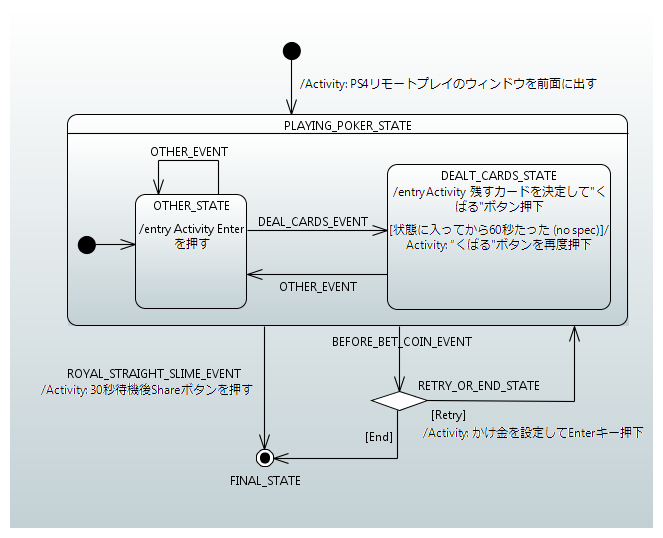
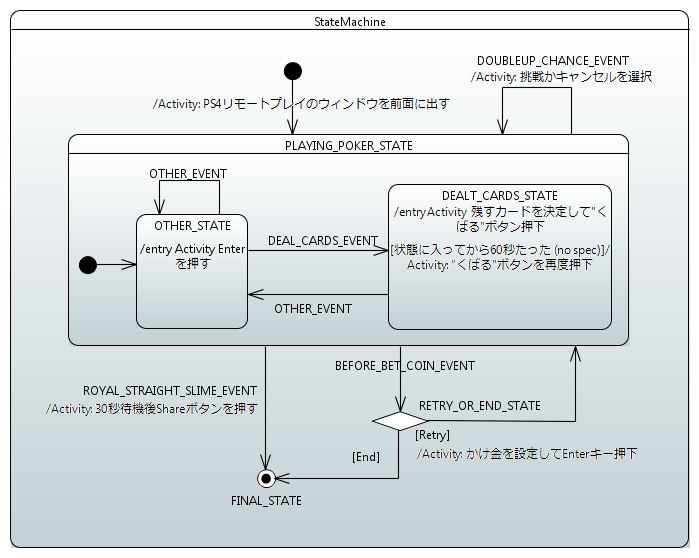
Enable to select try or cancel doubleup chance

diff --git a/src/main/java/com/github/lenemarix/autoplay/dq11/poker/config/StateMachineConfig.java b/src/main/java/com/github/lenemarix/autoplay/dq11/poker/config/StateMachineConfig.java
@@ -1,16 +1,7 @@
 package com.github.lenemarix.autoplay.dq11.poker.config;
 
-import static com.github.lenemarix.autoplay.dq11.poker.statemachine.event.Events.BEFORE_BET_COIN_EVENT;
-import static com.github.lenemarix.autoplay.dq11.poker.statemachine.event.Events.DEAL_CARDS_EVENT;
-import static com.github.lenemarix.autoplay.dq11.poker.statemachine.event.Events.DOUBLEUP_CHANCE_EVENT;
-import static com.github.lenemarix.autoplay.dq11.poker.statemachine.event.Events.OTHER_EVENT;
-import static com.github.lenemarix.autoplay.dq11.poker.statemachine.event.Events.ROYAL_STRAIGHT_SLIME_EVENT;
-import static com.github.lenemarix.autoplay.dq11.poker.statemachine.state.States.DEALT_CARDS_STATE;
-import static com.github.lenemarix.autoplay.dq11.poker.statemachine.state.States.DOUBLEUP_CHANCE_SELECT_STATE;
-import static com.github.lenemarix.autoplay.dq11.poker.statemachine.state.States.FINAL_STATE;
-import static com.github.lenemarix.autoplay.dq11.poker.statemachine.state.States.OTHER_STATE;
-import static com.github.lenemarix.autoplay.dq11.poker.statemachine.state.States.PLAYING_POKER_STATE;
-import static com.github.lenemarix.autoplay.dq11.poker.statemachine.state.States.RETRY_OR_END_STATE;
+import static com.github.lenemarix.autoplay.dq11.poker.statemachine.event.Events.*;
+import static com.github.lenemarix.autoplay.dq11.poker.statemachine.state.States.*;
 
 import org.springframework.context.annotation.Bean;
 import org.springframework.context.annotation.Configuration;
@@ -23,8 +14,8 @@ import org.springframework.statemachine.config.builders.StateMachineTransitionCo
 
 import com.github.lenemarix.autoplay.dq11.poker.statemachine.action.ActivateWindowAction;
 import com.github.lenemarix.autoplay.dq11.poker.statemachine.action.BetCoinAction;
-import com.github.lenemarix.autoplay.dq11.poker.statemachine.action.CancelDoubleupChanceAction;
 import com.github.lenemarix.autoplay.dq11.poker.statemachine.action.DecideExchangeCardAction;
+import com.github.lenemarix.autoplay.dq11.poker.statemachine.action.DecideTryDoubleupChanceAction;
 import com.github.lenemarix.autoplay.dq11.poker.statemachine.action.EnterKeyPushAction;
 import com.github.lenemarix.autoplay.dq11.poker.statemachine.action.PushDealButtonAction;
 import com.github.lenemarix.autoplay.dq11.poker.statemachine.action.PushShareButtonAction;
@@ -69,10 +60,10 @@ public class StateMachineConfig extends EnumStateMachineConfigurerAdapter<States
     public PushShareButtonAction pushShareButtonAction() {
         return new PushShareButtonAction();
     }
-    
+
     @Bean
-    public CancelDoubleupChanceAction cancelDoubleupChanceAction() {
-        return new CancelDoubleupChanceAction();
+    public DecideTryDoubleupChanceAction decideTryDoubleupChanceAction() {
+        return new DecideTryDoubleupChanceAction();
     }
 
     @Bean
@@ -97,7 +88,6 @@ public class StateMachineConfig extends EnumStateMachineConfigurerAdapter<States
         states.withStates()
                 .initial(PLAYING_POKER_STATE, activateWindowAction())
                 .choice(RETRY_OR_END_STATE)
-                .state(DOUBLEUP_CHANCE_SELECT_STATE, cancelDoubleupChanceAction(), null)
                 .end(FINAL_STATE)
                 .and()
                 .withStates()
@@ -141,16 +131,6 @@ public class StateMachineConfig extends EnumStateMachineConfigurerAdapter<States
                     .target(OTHER_STATE)
                     .event(OTHER_EVENT)
                     .and()
-                .withExternal()
-                    .source(PLAYING_POKER_STATE)
-                    .target(DOUBLEUP_CHANCE_SELECT_STATE)
-                    .event(DOUBLEUP_CHANCE_EVENT)
-                    .and()
-                .withExternal()
-                    .source(DOUBLEUP_CHANCE_SELECT_STATE)
-                    .target(OTHER_STATE)
-                    .event(Events.OTHER_EVENT)
-                    .and()
                 // 予期せぬ状態になったときにリトライかアプリケーション終了を判定する。
                 .withChoice()
                     .source(RETRY_OR_END_STATE)
@@ -163,6 +143,13 @@ public class StateMachineConfig extends EnumStateMachineConfigurerAdapter<States
                     .event(DEAL_CARDS_EVENT)
                     .guard(retryPushDealButtonGuard())
                     .action(pushDealButtonAction())
+                    .and()
+                // ダブルアップチャンスが発生した際に自己遷移し、設定に従ってダブルアップチャンスを継続するか決定する。
+                .withExternal()
+                    .source(PLAYING_POKER_STATE)
+                    .target(PLAYING_POKER_STATE)
+                    .event(DOUBLEUP_CHANCE_EVENT)
+                    .action(decideTryDoubleupChanceAction())
                     .and();
     }
 

diff --git a/src/test/java/com/github/lenemarix/autoplay/dq11/poker/statemachine/AutoplayStatemachineTest.java b/src/test/java/com/github/lenemarix/autoplay/dq11/poker/statemachine/AutoplayStatemachineTest.java
@@ -1,8 +1,6 @@
 package com.github.lenemarix.autoplay.dq11.poker.statemachine;
 
-import static com.github.lenemarix.autoplay.dq11.poker.statemachine.event.Events.BEFORE_BET_COIN_EVENT;
-import static com.github.lenemarix.autoplay.dq11.poker.statemachine.event.Events.OTHER_EVENT;
-import static com.github.lenemarix.autoplay.dq11.poker.statemachine.event.Events.ROYAL_STRAIGHT_SLIME_EVENT;
+import static com.github.lenemarix.autoplay.dq11.poker.statemachine.event.Events.*;
 import static com.github.lenemarix.autoplay.dq11.poker.statemachine.state.States.DEALT_CARDS_STATE;
 import static com.github.lenemarix.autoplay.dq11.poker.statemachine.state.States.FINAL_STATE;
 import static com.github.lenemarix.autoplay.dq11.poker.statemachine.state.States.OTHER_STATE;
@@ -129,6 +127,49 @@ public class AutoplayStatemachineTest {
                 .and()
             .step()
                 .sendEvent(BEFORE_BET_COIN_EVENT)
+                .expectStateChanged(2)
+                .expectStates(PLAYING_POKER_STATE, OTHER_STATE)
+                .and()
+            .build()
+            .test();
+    }
+
+    @Test
+    public void testStateMachine04() throws Exception {
+        List<Card> cards = Arrays.asList(Card.S10, Card.SJ, Card.SQ, Card.XX, Card.XX);
+        Message<Events> dealCardsEventMessage = MessageBuilder
+                .withPayload(Events.DEAL_CARDS_EVENT)
+                .setHeader("cards", cards)
+                .build();
+
+        StateMachineTestPlanBuilder.<States, Events>builder()
+            .stateMachine(stateMachine)
+            .step()
+                .expectStates(PLAYING_POKER_STATE, OTHER_STATE)
+                .and()
+            .step()
+                .sendEvent(dealCardsEventMessage)
+                .expectStateChanged(1)
+                .expectStates(PLAYING_POKER_STATE, DEALT_CARDS_STATE)
+                .and()
+            .step()
+                .sendEvent(DOUBLEUP_CHANCE_EVENT)
+                .expectStateChanged(2)
+                .expectStates(PLAYING_POKER_STATE, OTHER_STATE)
+                .and()
+            .build()
+            .test();
+    }
+
+    @Test
+    public void testStateMachine05() throws Exception {
+        StateMachineTestPlanBuilder.<States, Events>builder()
+            .stateMachine(stateMachine)
+            .step()
+                .expectStates(PLAYING_POKER_STATE, OTHER_STATE)
+                .and()
+            .step()
+                .sendEvent(DOUBLEUP_CHANCE_EVENT)
                 .expectStateChanged(2)
                 .expectStates(PLAYING_POKER_STATE, OTHER_STATE)
                 .and()

diff --git a/src/main/java/com/github/lenemarix/autoplay/dq11/poker/statemachine/action/DecideTryDoubleupChanceAction.java b/src/main/java/com/github/lenemarix/autoplay/dq11/poker/statemachine/action/DecideTryDoubleupChanceAction.java
@@ -1,0 +1,39 @@
+package com.github.lenemarix.autoplay.dq11.poker.statemachine.action;
+
+import org.springframework.beans.factory.annotation.Autowired;
+import org.springframework.boot.context.properties.ConfigurationProperties;
+import org.springframework.statemachine.StateContext;
+
+import com.github.lenemarix.autoplay.dq11.poker.statemachine.event.Events;
+import com.github.lenemarix.autoplay.dq11.poker.statemachine.state.States;
+import com.github.lenemarix.autoplay.dq11.poker.util.RobotUtil;
+
+/**
+ * ダブルアップチャンスのダイアログを選択するアクション。 
+ * どちらを選択するかはパラメータによって設定。
+ */
+@ConfigurationProperties(prefix = "autoplay.dq11.poker.decide-try-doubleup-chance-action")
+public class DecideTryDoubleupChanceAction extends AbstractAutoplayAction {
+
+    private boolean tryDoubleup;
+
+    @Autowired
+    RobotUtil robotUtil;
+
+    @Override
+    public void doExecute(StateContext<States, Events> context) {
+        if (!tryDoubleup) {
+            // 下キーを押して"いいえ"にカーソル移動。
+            robotUtil.downKeyPress();
+        }
+        // 決定は後続のOTHER_STATEのEntry Actionで行う。
+    }
+
+    public boolean isTryDoubleup() {
+        return tryDoubleup;
+    }
+
+    public void setTryDoubleup(boolean tryDoubleup) {
+        this.tryDoubleup = tryDoubleup;
+    }
+}

diff --git a/src/main/java/com/github/lenemarix/autoplay/dq11/poker/statemachine/state/States.java b/src/main/java/com/github/lenemarix/autoplay/dq11/poker/statemachine/state/States.java
@@ -11,9 +11,6 @@ public enum States {
     /** カード配布済み状態("くばる"ボタンが表示されている)。 */
     DEALT_CARDS_STATE,
 
-    /** ダブルアップチャンス選択中状態。 */
-    DOUBLEUP_CHANCE_SELECT_STATE,
-
     /** 予期せぬ状態になったとき、リトライかアプリケーション終了を選択する状態。 */
     RETRY_OR_END_STATE,
 

diff --git a/src/main/java/com/github/lenemarix/autoplay/dq11/poker/AutoplayApplication.java b/src/main/java/com/github/lenemarix/autoplay/dq11/poker/AutoplayApplication.java
@@ -60,7 +60,7 @@ public class AutoplayApplication implements ApplicationRunner {
         case CAPTURE_BET_COIN_INPUT:
             captureRunner.captureBetCoinInput();
             break;
-        case DOUBLEUP_CHANCE_SELECT:
+        case CAPTURE_DOUBLEUP_CHANCE_SELECT:
             captureRunner.captureDoubleupChanceDialog();
             break;
         default:

diff --git a/src/main/java/com/github/lenemarix/autoplay/dq11/poker/model/Mode.java b/src/main/java/com/github/lenemarix/autoplay/dq11/poker/model/Mode.java
@@ -18,7 +18,7 @@ public enum Mode {
     CAPTURE_BET_COIN_INPUT,
 
     /** "ダブルアップチャンス選択時の画像キャプチャを行うモード(準備用)。 */
-    DOUBLEUP_CHANCE_SELECT,
+    CAPTURE_DOUBLEUP_CHANCE_SELECT,
 
     /** テストモード(単体試験時などに使用)。 */
     TEST

diff --git a/src/main/java/com/github/lenemarix/autoplay/dq11/poker/statemachine/event/Events.java b/src/main/java/com/github/lenemarix/autoplay/dq11/poker/statemachine/event/Events.java
@@ -16,7 +16,7 @@ public enum Events {
 
     /** ダブルアップチャンスイベント。 */
     DOUBLEUP_CHANCE_EVENT,
-    
+
     /** その他イベント。 */
     OTHER_EVENT,
 
